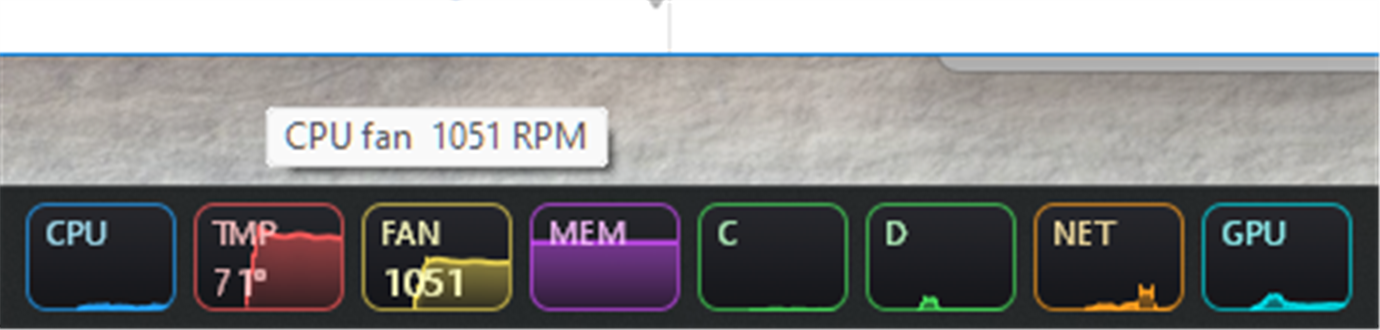
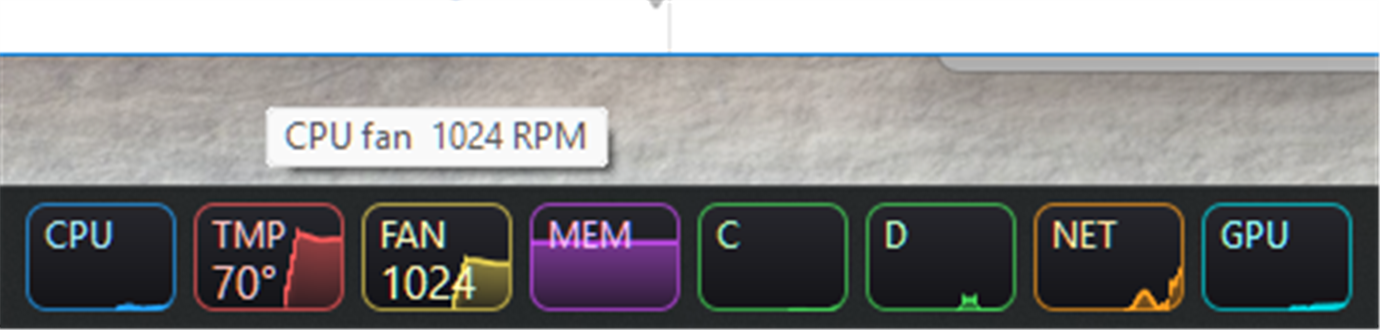
ClearType text, opaque cards, crisper font sizes

diff --git a/src/main.rs b/src/main.rs
@@ -751,13 +751,13 @@ fn create_surfaces(a: &mut App) {
                 DEFAULT_CHARSET as u32,
                 OUT_DEFAULT_PRECIS as u32,
                 CLIP_DEFAULT_PRECIS as u32,
-                ANTIALIASED_QUALITY as u32,
+                CLEARTYPE_QUALITY as u32,
                 (DEFAULT_PITCH | FF_DONTCARE) as u32,
                 face.as_ptr(),
             )
         };
-        a.font_label = mkfont(10.5, 400);
-        a.font_value = mkfont(13.0, 400);
+        a.font_label = mkfont(12.0, 400);
+        a.font_value = mkfont(15.0, 400);
         SelectObject(a.tdc, a.font_label);
         SetBkMode(a.tdc, TRANSPARENT as i32);
         SetTextColor(a.tdc, 0x00FFFFFF);
@@ -814,7 +814,7 @@ fn render(a: &mut App) {
         let bw = (1.0 * s).max(1.0);
         let lw = (1.6 * s).max(1.0);
         let dark = a.dark;
-        let (_bg, bg_a): ((u32, u32, u32), u32) = if dark { ((0, 0, 0), 238) } else { ((0, 0, 0), 238) };
+        let (_bg, bg_a): ((u32, u32, u32), u32) = if dark { ((0, 0, 0), 255) } else { ((0, 0, 0), 255) };
 
         // clear text mask
         core::slice::from_raw_parts_mut(a.tbits, w * h).fill(0);
@@ -936,8 +936,17 @@ fn render(a: &mut App) {
                 let slot = ((xf / (cw + gap)) as usize).min(a.n_show - 1);
                 let (cr, cg, cb) = COLORS[a.order[slot]];
                 let c = if dark { ((cr + 255) / 2 + 25, (cg + 255) / 2 + 25, (cb + 255) / 2 + 25) } else { (cr / 2, cg / 2, cb / 2) };
-                let cov = ((mv >> 8) & 255) * 225 / 255;
-                blend(&mut px[y * w + x], c.0.min(255), c.1.min(255), c.2.min(255), cov);
+                // ClearType: per-channel coverage (R,G,B) from the mask, applied to the opaque card colour
+                let (cr_, cg_, cb_) = ((mv >> 16) & 255, (mv >> 8) & 255, mv & 255);
+                let dst = &mut px[y * w + x];
+                if (*dst >> 24) == 255 {
+                    let mix = |d: u32, t: u32, k: u32| (t * k + d * (255 - k) + 127) / 255;
+                    let (dr, dg, db) = ((*dst >> 16) & 255, (*dst >> 8) & 255, *dst & 255);
+                    *dst = 0xFF00_0000 | (mix(dr, c.0.min(255), cr_) << 16) | (mix(dg, c.1.min(255), cg_) << 8) | mix(db, c.2.min(255), cb_);
+                } else {
+                    let cov = (cr_ + cg_ + cb_) / 3;
+                    blend(dst, c.0.min(255), c.1.min(255), c.2.min(255), cov);
+                }
             }
         }
     }
